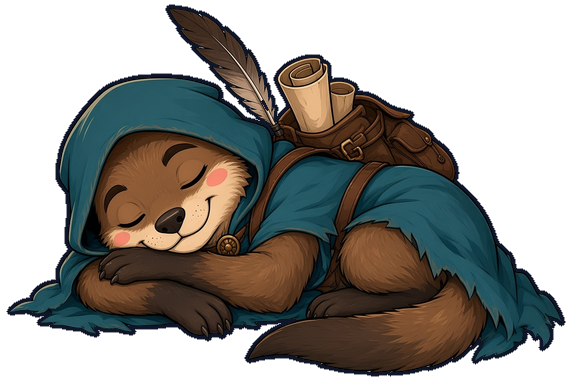
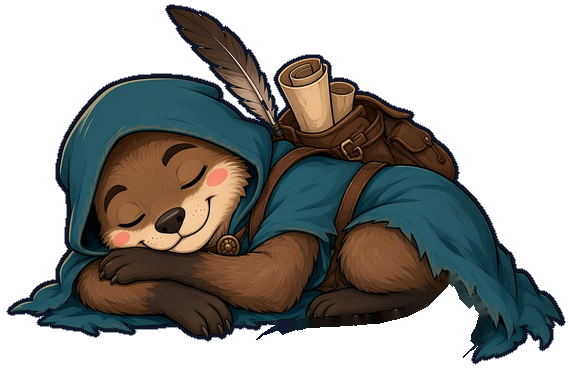
Sleeping pose rig: breathing back, twitches, curling tail, rippling Zs
Claude-Session: https://claude.ai/code/session_01MKsZvYnMVUP17zjeeAuUE4

Changed region(s): [[0.4175, 0.7218, 0.8649, 1.0]]

diff --git a/dbtest.html b/dbtest.html
@@ -11,7 +11,7 @@
   .wrap{max-width:1040px;margin:0 auto;padding:20px 16px 40px}
   h1{font:400 1.7rem "Lilita One",system-ui,sans-serif;margin:.2em 0}
   p{color:#aab6d6;margin:.3em 0 1em;line-height:1.45}
-  .dbrow{display:grid;grid-template-columns:repeat(4,1fr);gap:14px}
+  .dbrow{display:grid;grid-template-columns:repeat(auto-fit,minmax(190px,1fr));gap:14px}
   .dbrow.two{grid-template-columns:1fr 1fr}
   @media(max-width:820px){.dbrow{grid-template-columns:1fr 1fr}}
   @media(max-width:460px){.dbrow,.dbrow.two{grid-template-columns:1fr}}
@@ -25,12 +25,13 @@
 <body>
 <div class="wrap">
   <h1>Smudge on DragonBones</h1>
-  <p>All four working poses as DragonBones rigs: same bone names, a tail that bends along its length, and the same named moves on each (idle, act, cheer, blink, talk).</p>
+  <p>All five poses as DragonBones rigs: same bone names, a tail that bends along its length, and the same named moves on each. Asleep, his back rises and falls, his snout and paws twitch now and then, and the Zs ripple one after another.</p>
   <div class="dbrow">
     <div class="dbstage" id="d_stamp"><b>Stamping</b></div>
     <div class="dbstage" id="d_fish"><b>Fishing</b></div>
     <div class="dbstage" id="d_pick"><b>Lockpicking</b></div>
     <div class="dbstage" id="d_dig"><b>Digging</b></div>
+    <div class="dbstage" id="d_sleep"><b>Sleeping</b></div>
   </div>
   <div class="dbbar">
     <button class="btn" id="bAct">Do the job</button>
@@ -45,15 +46,15 @@
     <div class="dbstage" id="d_big"><b>DragonBones</b></div>
   </div>
 </div>
-<script src="js/os.js?v=1124e"></script>
+<script src="js/os.js?v=1124f"></script>
 <script src="js/vendor/dragonBones.core.js"></script>
-<script src="js/dbcanvas.js?v=1124e"></script>
+<script src="js/dbcanvas.js?v=1124f"></script>
 <script>
 (async function () {
   const $ = id => document.getElementById(id), opt = (x, y) => ({ x, y, ver: OS.VER });
   const note = (host, msg) => { const d = document.createElement('p'); d.textContent = msg; d.style.cssText = 'position:absolute;left:12px;right:12px;top:40px;color:#ffb4a8'; host.appendChild(d); };
   const all = [];
-  [['stamp', 0.43, 0.5, 0.9, 'd_stamp'], ['fish', 0.46, 0.5, 0.72, 'd_fish'], ['pick', 0.42, 0.47, 0.92, 'd_pick'], ['dig', 0.39, 0.5, 0.94, 'd_dig'], ['stamp', 0.62, 0.52, 0.9, 'd_big']].forEach(([pose, sc, x, y, id]) => {
+  [['stamp', 0.43, 0.5, 0.9, 'd_stamp'], ['fish', 0.46, 0.5, 0.72, 'd_fish'], ['pick', 0.42, 0.47, 0.92, 'd_pick'], ['dig', 0.39, 0.5, 0.94, 'd_dig'], ['sleep', 0.36, 0.52, 0.86, 'd_sleep'], ['stamp', 0.62, 0.52, 0.9, 'd_big']].forEach(([pose, sc, x, y, id]) => {
     const p = new DBCanvas.Puppet($(id), pose, sc, opt(x, y)); all.push(p);
     p.ready.catch(e => { console.error(e); note($(id), 'Could not start: ' + e.message); });
   });

diff --git a/js/dbcanvas.js b/js/dbcanvas.js
@@ -152,6 +152,9 @@
       this.p = f.build(this.pose, 'smudge_' + this.pose); this.an = this.p.animation; this.an.play('idle', 0);
       const cv = this.cv = document.createElement('canvas'), ctx = cv.getContext('2d'); cv.style.cssText = 'position:absolute;inset:0;width:100%;height:100%;pointer-events:none'; this.host.appendChild(cv);
       const blink = () => { if (this.dead) return; this.over('blink', 1, 3); this.bt = setTimeout(blink, 2200 + Math.random() * 3300); }; blink();
+      // little fidgets some poses have (a sleeping snout twitch, now and then a dream)
+      const fidget = () => { if (this.dead) return; if (Math.random() < 0.22) this.over('act', 1, 1); else this.over('twitch', 1, 5); this.ft = setTimeout(fidget, 3500 + Math.random() * 5500); };
+      if (this.an.hasAnimation('twitch')) this.ft = setTimeout(fidget, 2500);
       let last = performance.now();
       const frame = now => {
         if (this.dead) return;
@@ -172,7 +175,7 @@
     act() { return this.over('act', 1, 1); }
     cheer(sec) { return this.over('cheer', Math.max(1, Math.round((sec || 2) * 2)), 2); }
     say(sec) { return this.over('talk', Math.max(1, Math.round((sec || 2) * 1.5)), 4); }
-    destroy() { this.dead = true; cancelAnimationFrame(this.raf); clearTimeout(this.bt); if (this.cv) this.cv.remove(); if (this.p) this.p.dispose(); }
+    destroy() { this.dead = true; cancelAnimationFrame(this.raf); clearTimeout(this.bt); clearTimeout(this.ft); if (this.cv) this.cv.remove(); if (this.p) this.p.dispose(); }
   }
 
   window.DBCanvas = { Factory, draw, Puppet };

diff --git a/admin.html b/admin.html
@@ -3,7 +3,7 @@
 <title>Owner's office · OverSummoned</title><meta name="robots" content="noindex"><meta name="theme-color" content="#080c1a">
 <link rel="icon" href="/favicon.ico" sizes="any"><link rel="stylesheet" href="/css/os.css"></head>
 <body class="game admin">
-<div class="boot" id="boot"><img src="/assets/v2/smudge/stamp.webp?v=1124e" alt=""><p>Unlocking the office…</p></div>
+<div class="boot" id="boot"><img src="/assets/v2/smudge/stamp.webp?v=1124f" alt=""><p>Unlocking the office…</p></div>
 <header class="gbar"><div class="wrap"><a class="brand" href="/play">Over<b>Summoned</b></a><span class="crown">Owner's office</span><div class="res"><button class="btn small ghost" id="refresh">Refresh</button><a class="btn small" href="/play">Back to the game</a></div></div></header>
 <main class="wrap">
   <nav class="atabs" id="atabs"><button class="on" data-t="overview">Overview</button><button data-t="players">Players</button><button data-t="heroes">Characters</button><button data-t="items">Items</button><button data-t="economy">Economy</button><button data-t="studio">Marketing studio</button></nav>

diff --git a/play.html b/play.html
@@ -10,14 +10,14 @@
 <link rel="stylesheet" href="/css/os.css">
 </head>
 <body class="game">
-<div class="boot" id="boot"><img src="/assets/v2/smudge/stamp.webp?v=1124e" alt=""><p>Opening the ledger…</p></div>
+<div class="boot" id="boot"><img src="/assets/v2/smudge/stamp.webp?v=1124f" alt=""><p>Opening the ledger…</p></div>
 <header class="gbar"><div class="wrap">
   <a class="brand" href="/">Over<b>Summoned</b></a>
   <div class="res">
     <span title="Energy. Spend it on training."><img src="/assets/v2/loot/x_energy.webp" alt="Energy"><b id="r-energy">0</b></span>
     <span title="Ink. Smudge spends it to summon."><img src="/assets/v2/loot/x_ink.webp" alt="Ink"><b id="r-ink">0</b></span>
     <span title="Gold"><img src="/assets/v2/loot/x_gold.webp" alt="Gold"><b id="r-gold">0</b></span>
-    <button class="avatar" id="go-account" aria-label="Your account"><img src="/assets/v2/smudge/stamp.webp?v=1124e" alt=""></button>
+    <button class="avatar" id="go-account" aria-label="Your account"><img src="/assets/v2/smudge/stamp.webp?v=1124f" alt=""></button>
   </div>
 </div></header>
 

diff --git a/login.html b/login.html
@@ -5,7 +5,7 @@
 <body class="auth">
 <a class="brand authbrand" href="/">Over<b>Summoned</b></a>
 <main class="authwrap">
-  <div class="authart"><img src="/assets/v2/smudge/stamp.webp?v=1124e" alt="Smudge the otter stamping his ledger"><p id="authquip">“Name, please. And spell it right. You have no idea what happens when I spell it wrong.”</p></div>
+  <div class="authart"><img src="/assets/v2/smudge/stamp.webp?v=1124f" alt="Smudge the otter stamping his ledger"><p id="authquip">“Name, please. And spell it right. You have no idea what happens when I spell it wrong.”</p></div>
   <div class="authcard panel" id="card">
     <div id="v-main">
       <div class="seg" role="tablist"><button class="on" data-t="in">Sign in</button><button data-t="up">Create account</button></div>

diff --git a/js/os.js b/js/os.js
@@ -3,7 +3,7 @@ window.OS = (function () {
   const A = '/assets/v2/';
   const OS = { R: null, rig: null, voice: null, items: {}, heroes: {} };
 
-  OS.VER = '?v=1124e';   // bump when art or data changes, so browsers drop their cached copies
+  OS.VER = '?v=1124f';   // bump when art or data changes, so browsers drop their cached copies
   OS.load = async function () {
     const [R, rig, voice] = await Promise.all(['rules', 'rig', 'voice'].map(n => fetch('/data/' + n + '.json' + OS.VER).then(r => r.json())));
     OS.R = R; OS.rig = rig; OS.voice = voice; OS.items = R.items;

diff --git a/rules/dbexport.py b/rules/dbexport.py
@@ -38,7 +38,7 @@ def mat(deg, x, y):
 
 def wave(dur, step, fn, key='rotate'):
     """Sampled looping timeline: fn(phase 0..1) -> value."""
-    fr = [{'duration': step, 'tweenEasing': 0, key: r2(fn(f / dur))} for f in range(0, dur, step)]
+    fr = [{'duration': step, 'tweenEasing': 0, key: r2(fn(f / dur))} for f in range(0, dur, step) if f + step <= dur]
     fr.append({'duration': 0, key: r2(fn(0))})
     return fr
 
@@ -232,5 +232,111 @@ def build(pose='stamp'):
     print(f'{name}: {len(bones)} bones, {len(slots)} slots, tail {ang:.0f} deg x {L:.0f}px, atlas {W}x{H}')
 
 
+def build_sleep():
+    """The sleeping pose. The whole picture is one soft mesh with bones under the back, the snout and
+    the front paws, so the back rises as he breathes and he twitches now and then; the tail lies in
+    front on its own three bones; three Zs ride up and down one after another."""
+    pose = 'sleep'; name = 'smudge_sleep'
+    rig = json.load(open(os.path.join(ROOT, 'data', 'rig.json')))[pose]; foot = rig['foot']; D = rig['db']
+    A = lambda pt: (pt[0] - foot[0], pt[1] - foot[1]); TP = rig['parts'][0]
+    img = {'base': Image.open(os.path.join(SRC, 'sleep_base.png')).convert('RGBA'), 'tail': Image.open(os.path.join(SRC, 'sleep_tail.png')).convert('RGBA')}
+    def zed(sz):
+        s = 4; w = sz * s; e = Image.new('RGBA', (w + 8 * s, w + 8 * s), (0, 0, 0, 0)); d = ImageDraw.Draw(e); o = 4 * s; t = w * 0.24
+        pts = [(o, o), (o + w, o), (o + w, o + t * 0.9), (o + t * 1.25, o + w - t), (o + w, o + w - t), (o + w, o + w), (o, o + w), (o, o + w - t * 0.9), (o + w - t * 1.25, o + t), (o, o + t)]
+        d.polygon(pts, fill=(236, 240, 255, 255)); d.line(pts + [pts[0]], fill=(16, 22, 42, 255), width=2 * s, joint='curve')
+        return e.resize((sz + 8, sz + 8), Image.LANCZOS)
+    ZS = [16, 22, 30]
+    for i, sz in enumerate(ZS): img[f'z{i}'] = zed(sz)
+
+    order = sorted(img, key=lambda n: -img[n].size[1]); W = 1024; x = y = 2; rowh = 0; sub = []
+    for n in order:
+        w, h = img[n].size
+        if x + w + 2 > W: x = 2; y += rowh + 2; rowh = 0
+        sub.append({'name': n, 'x': x, 'y': y, 'width': w, 'height': h}); x += w + 2; rowh = max(rowh, h)
+    H = 1
+    while H < y + rowh + 2: H *= 2
+    atlas = Image.new('RGBA', (W, H), (0, 0, 0, 0))
+    for s in sub: atlas.paste(img[s['name']], (s['x'], s['y']))
+
+    body = (0, -90)
+    bones = [{'name': 'root'}, {'name': 'body', 'parent': 'root', 'transform': {'x': 0, 'y': -90}}]
+    P = {}
+    for n in ('breath', 'nose', 'paw'):
+        P[n] = A(D[n]); bones.append({'name': n, 'parent': 'body', 'transform': {'x': r2(P[n][0] - body[0]), 'y': r2(P[n][1] - body[1])}})
+    tp = A(TP['pivot']); tl = (TP['pivot'][0] - TP['offset'][0], TP['pivot'][1] - TP['offset'][1])
+    (dx, dy), L = tail_axis(img['tail'], tl); ang = math.degrees(math.atan2(dy, dx)); seg = L / 3
+    bones.append({'name': 'tail1', 'parent': 'body', 'length': r2(seg), 'transform': {'x': r2(tp[0] - body[0]), 'y': r2(tp[1] - body[1]), 'skX': r2(ang), 'skY': r2(ang)}})
+    bones.append({'name': 'tail2', 'parent': 'tail1', 'length': r2(seg), 'transform': {'x': r2(seg)}})
+    bones.append({'name': 'tail3', 'parent': 'tail2', 'length': r2(seg), 'transform': {'x': r2(seg)}})
+    for i, zp in enumerate(D['zs']):
+        zx, zy = A(zp); bones.append({'name': f'z{i}', 'parent': 'root', 'transform': {'x': r2(zx), 'y': r2(zy)}})
+    idx = {b['name']: i for i, b in enumerate(bones)}
+
+    def grid(w, h, origin, NX, NY, weigh):
+        verts = []; uvs = []; weights = []; tris = []
+        for j in range(NY):
+            for i in range(NX):
+                px, py = w * i / (NX - 1), h * j / (NY - 1)
+                verts += [r2(origin[0] + px), r2(origin[1] + py)]; uvs += [round(px / w, 4), round(py / h, 4)]
+                ws = [(b, round(v, 3)) for b, v in weigh(px, py) if v > 0.001]
+                weights += [len(ws)] + [v for bw in ws for v in bw]
+        for j in range(NY - 1):
+            for i in range(NX - 1):
+                a = j * NX + i; tris += [a, a + 1, a + NX, a + 1, a + NX + 1, a + NX]
+        return verts, uvs, tris, weights
+    # body picture: weights fall off smoothly from each of the three little bones
+    bw, bh = img['base'].size
+    def wbody(px, py):
+        def near(c, rx, ry, floor=0.0):
+            v = math.exp(-(((px - c[0]) / rx) ** 2 + ((py - c[1]) / ry) ** 2) / 2); return max(0.0, (v - floor) / (1 - floor))
+        b = near(D['breath'], 95, 80, 0.15); n = near(D['nose'], 20, 18, 0.2); p = near(D['paw'], 26, 16, 0.2)
+        t = b + n + p
+        if t > 1: b, n, p = b / t, n / t, p / t
+        return [(idx['body'], 1 - (b + n + p)), (idx['breath'], b), (idx['nose'], n), (idx['paw'], p)]
+    v, u, t, w = grid(bw, bh, A((0, 0)), 20, 14, wbody)
+    bp = [idx['body'], 1, 0, 0, 1, body[0], body[1]]
+    for n in ('breath', 'nose', 'paw'): bp += [idx[n], 1, 0, 0, 1, r2(P[n][0]), r2(P[n][1])]
+    base_mesh = {'type': 'mesh', 'name': 'base', 'width': bw, 'height': bh, 'vertices': v, 'uvs': u, 'triangles': t, 'weights': w, 'slotPose': [1, 0, 0, 1, 0, 0], 'bonePose': bp}
+    tw, th = img['tail'].size
+    def wtail(px, py):
+        q = ((px - tl[0]) * dx + (py - tl[1]) * dy) / L * 3 - 0.5; q = max(0.0, min(2.0, q)); k = min(1, int(q)); f = q - k; f = f * f * (3 - 2 * f)
+        return [(idx[f'tail{k + 1}'], 1 - f), (idx[f'tail{k + 2}'], f)]
+    v, u, t, w = grid(tw, th, A(TP['offset']), 9, 5, wtail)
+    bp = []
+    for k in range(3): bp += [idx[f'tail{k + 1}']] + mat(ang, tp[0] + dx * seg * k, tp[1] + dy * seg * k)
+    tail_mesh = {'type': 'mesh', 'name': 'tail', 'width': tw, 'height': th, 'vertices': v, 'uvs': u, 'triangles': t, 'weights': w, 'slotPose': [1, 0, 0, 1, 0, 0], 'bonePose': bp}
+
+    slots = [{'name': 'base', 'parent': 'root'}, {'name': 'tail', 'parent': 'root'}] + [{'name': f'z{i}', 'parent': f'z{i}'} for i in range(3)]
+    skin = [{'name': 'base', 'display': [base_mesh]}, {'name': 'tail', 'display': [tail_mesh]}] + [{'name': f'z{i}', 'display': [{'name': f'z{i}'}]} for i in range(3)]
+
+    S = math.sin; T = 2 * math.pi; C = math.cos
+    idle = [
+        {'name': 'breath', 'translateFrame': wave(120, 6, lambda p: -3.6 * (0.5 - 0.5 * C(T * p)), 'y')},
+        {'name': 'tail2', 'rotateFrame': wave(120, 8, lambda p: 1.5 * S(T * p + 0.4))},
+        {'name': 'tail3', 'rotateFrame': wave(120, 6, lambda p: 4 * S(T * p) + 1.5 * S(T * 3 * p))},
+    ]
+    # the Zs: one wave passing along the three of them, like a caterpillar's back
+    for i in range(3):
+        idle.append({'name': f'z{i}', 'translateFrame': wave(120, 4, lambda p, i=i: (5 + 2 * i) * S(T * 2 * p - i * 1.25), 'y'),
+                     'rotateFrame': wave(120, 6, lambda p, i=i: 6 * S(T * 2 * p - i * 1.25 - 0.8))})
+    twitch = [{'name': 'nose', 'translateFrame': keys([(0, {'x': 0, 'y': 0}), (2, {'x': -1.5, 'y': -2.5}), (4, {'x': 0.5, 'y': 0.5}), (6, {'x': -1, 'y': -1.5}), (10, {'x': 0, 'y': 0})])}]
+    act = [   # a dream: paws jerk, tail tip flicks, he settles
+        {'name': 'paw', 'translateFrame': keys([(0, {'x': 0, 'y': 0}), (2, {'x': 3, 'y': -3}), (4, {'x': -1, 'y': 1}), (6, {'x': 2.5, 'y': -2}), (9, {'x': -0.5, 'y': 0.5}), (16, {'x': 0, 'y': 0})])},
+        {'name': 'nose', 'translateFrame': keys([(0, {'x': 0, 'y': 0}), (3, {'x': -1.5, 'y': -2}), (8, {'x': 0.5, 'y': 0.5}), (16, {'x': 0, 'y': 0})])},
+        {'name': 'tail3', 'rotateFrame': keys([(0, 0), (3, 13), (6, -6), (9, 8), (16, 0)])},
+        {'name': 'tail2', 'rotateFrame': keys([(0, 0), (4, 5), (8, -2), (16, 0)])}]
+    cheer = [{'name': 'tail3', 'rotateFrame': wave(24, 3, lambda p: 9 * S(T * p))}, {'name': 'tail2', 'rotateFrame': wave(24, 3, lambda p: 4 * S(T * p - 0.8))}]
+    anims = [{'duration': 120, 'playTimes': 0, 'name': 'idle', 'bone': idle}, {'duration': 16, 'playTimes': 1, 'name': 'act', 'bone': act},
+             {'duration': 10, 'playTimes': 1, 'name': 'twitch', 'bone': twitch}, {'duration': 24, 'playTimes': 0, 'name': 'cheer', 'bone': cheer}]
+    ske = {'frameRate': FPS, 'name': name, 'version': '5.5', 'compatibleVersion': '5.5', 'armature': [{
+        'type': 'Armature', 'frameRate': FPS, 'name': pose, 'aabb': {'x': -foot[0], 'y': -foot[1], 'width': bw, 'height': bh},
+        'bone': bones, 'slot': slots, 'skin': [{'name': '', 'slot': skin}], 'animation': anims, 'defaultActions': [{'gotoAndPlay': 'idle'}]}]}
+    tex = {'name': name, 'imagePath': f'{name}_tex.png', 'width': W, 'height': H, 'SubTexture': sub}
+    json.dump(ske, open(os.path.join(OUT, f'{name}_ske.json'), 'w'), separators=(',', ':'))
+    json.dump(tex, open(os.path.join(OUT, f'{name}_tex.json'), 'w'), separators=(',', ':'))
+    atlas.save(os.path.join(OUT, f'{name}_tex.webp'), quality=92, method=6)
+    print(f'{name}: {len(bones)} bones, {len(slots)} slots, tail {ang:.0f} deg x {L:.0f}px, atlas {W}x{H}')
+
+
 if __name__ == '__main__':
-    for pose in (sys.argv[1:] or ['stamp', 'fish', 'pick', 'dig']): build(pose)
+    for pose in (sys.argv[1:] or ['stamp', 'fish', 'pick', 'dig', 'sleep']): build_sleep() if pose == 'sleep' else build(pose)

diff --git a/rules/db4.py b/rules/db4.py
@@ -1,0 +1,27 @@
+import asyncio, subprocess, time, socket, sys
+from playwright.async_api import async_playwright
+from PIL import Image
+def up():
+    s=socket.socket()
+    try: s.connect(('127.0.0.1',8800)); s.close(); return True
+    except Exception: return False
+if not up():
+    subprocess.Popen(['python3','/home/claude/tools/serve.py','/home/claude/oversummoned-game','8800'],stdout=subprocess.DEVNULL,stderr=subprocess.DEVNULL,start_new_session=True); time.sleep(1.5)
+async def main():
+    async with async_playwright() as p:
+        b=await p.chromium.launch(executable_path='/usr/bin/google-chrome',args=['--no-sandbox'])
+        pg=await b.new_page(viewport={'width':1080,'height':700},device_scale_factor=1.5)
+        pg.on('pageerror',lambda e: print('PAGEERR',e))
+        pg.on('console',lambda m: print('ERR',m.text[:200]) if m.type=='error' and 'accounts.google' not in m.text and 'ERR_' not in m.text else None)
+        await pg.goto('http://127.0.0.1:8800/dbtest.html',wait_until='load'); await pg.wait_for_timeout(1500)
+        clip={'x':20,'y':110,'width':1040,'height':350}
+        await pg.screenshot(path='/tmp/d0.png',clip=clip)
+        for i,ms in enumerate((230,380,560)):
+            await pg.evaluate("document.getElementById('bAct').click()"); await pg.wait_for_timeout(ms)
+            await pg.screenshot(path=f'/tmp/d{i+1}.png',clip=clip); await pg.wait_for_timeout(900)
+        await b.close()
+asyncio.run(main())
+ims=[Image.open(f'/tmp/d{i}.png') for i in range(4)]
+s=Image.new('RGB',(ims[0].width,sum(i.height for i in ims))); y=0
+for im in ims: s.paste(im,(0,y)); y+=im.height
+s.resize((1300,int(s.height*1300/s.width)),Image.LANCZOS).save('/tmp/d_all.png')

diff --git a/rules/sleepshot.py b/rules/sleepshot.py
@@ -1,0 +1,26 @@
+import asyncio, subprocess, time, socket
+from playwright.async_api import async_playwright
+from PIL import Image
+def up():
+    s=socket.socket()
+    try: s.connect(('127.0.0.1',8800)); s.close(); return True
+    except Exception: return False
+if not up():
+    subprocess.Popen(['python3','/home/claude/tools/serve.py','/home/claude/oversummoned-game','8800'],stdout=subprocess.DEVNULL,stderr=subprocess.DEVNULL,start_new_session=True); time.sleep(1.5)
+async def main():
+    async with async_playwright() as p:
+        b=await p.chromium.launch(executable_path='/usr/bin/google-chrome',args=['--no-sandbox'])
+        pg=await b.new_page(viewport={'width':1080,'height':900},device_scale_factor=2)
+        pg.on('pageerror',lambda e: print('PAGEERR',e))
+        await pg.goto('http://127.0.0.1:8800/dbtest.html',wait_until='load'); await pg.wait_for_timeout(1500)
+        box=await pg.evaluate("(()=>{const r=document.getElementById('d_sleep').getBoundingClientRect();return {x:r.x,y:r.y,width:r.width,height:r.height}})()")
+        print(box)
+        for i in range(4):
+            await pg.screenshot(path=f'/tmp/z{i}.png',clip=box); await pg.wait_for_timeout(620)
+        await pg.evaluate("DBP.forEach(p=>p.bones=true)"); await pg.wait_for_timeout(100); await pg.screenshot(path='/tmp/z4.png',clip=box)
+        await b.close()
+asyncio.run(main())
+ims=[Image.open(f'/tmp/z{i}.png') for i in range(5)]
+s=Image.new('RGB',(sum(i.width for i in ims),ims[0].height)); x=0
+for im in ims: s.paste(im,(x,0)); x+=im.width
+s.save('/tmp/z_all.png'); print(s.size)

diff --git a/rules/cutlib.py b/rules/cutlib.py
@@ -95,6 +95,25 @@ def cut_behind(a, base, pts, overlap=None, keep_cloak=True, soften=None, thin=Fa
     return piece
 
 
+def cut_front(a, base, pts, fill=10, fur_only=True):
+    """A part lying on top of the body (a tail curled in front). Cloak stays on the body. The body is
+    painted a little way in under the part's edge so no slit opens when it lifts; the rest is cleared."""
+    teal, cloak, dark = colours(a); alpha = a[..., 3] > 0; rgb = a[..., :3].astype(np.int16)
+    m = poly(a, pts) & alpha & ~cloak
+    if fur_only:
+        fur = m & (rgb[..., 0] > rgb[..., 2] + 18) & (rgb[..., 0] >= rgb[..., 1])
+        fur = biggest(ndimage.binary_opening(fur, iterations=1))
+        m = ndimage.binary_fill_holes(fur | (ndimage.binary_dilation(fur, iterations=7) & m & dark))
+    m |= ndimage.binary_dilation(m, iterations=7) & alpha & dark & ndimage.binary_dilation(~alpha, iterations=8) & ndimage.binary_dilation(poly(a, pts), iterations=6)
+    piece = a.copy(); piece[~m] = 0
+    base[..., 3][m] = 0
+    known = base[..., 3] > 200
+    band = ndimage.binary_dilation(known, iterations=fill) & m
+    painted = cv2.inpaint(np.ascontiguousarray(base[..., :3]), (~known).astype(np.uint8) * 255, 4, cv2.INPAINT_TELEA)
+    base[..., :3][band] = painted[band]; base[..., 3][band] = 255
+    return piece
+
+
 def crumbs(base, least=300):
     lab, n = ndimage.label(base[..., 3] > 0)
     if n > 1:

diff --git a/rules/smudge_sleep_cut.py b/rules/smudge_sleep_cut.py
@@ -1,0 +1,23 @@
+"""Cut of Smudge's sleeping pose: just the tail comes off (it lies in front). Everything else that
+moves while he sleeps (back rising, snout and paw twitches, the Zs) is done with bones on the whole
+picture in rules/dbexport.py.   python3 rules/smudge_sleep_cut.py"""
+import sys, os
+sys.path.insert(0, os.path.dirname(os.path.abspath(__file__)))
+from cutlib import *
+
+POSE = 'sleep'
+TAIL = [(243,360),(252,345),(270,329),(300,318),(340,316),(380,313),(408,306),(428,296),(438,280),(446,270),(470,270),(500,300),(500,340),
+        (482,360),(450,373),(400,379),(340,377),(290,371),(255,366)]
+
+
+def run():
+    a, xx, yy = load(POSE); base = a.copy()
+    tail = cut_front(a, base, TAIL)
+    parts = [dict(name='tail', mode='front', pivot=[455, 286], offset=save(tail, POSE, 'tail'))]
+    entry = dict(size=[a.shape[1], a.shape[0]], foot=[300, 372], bag=[430, 150], parts=parts, face=None, zzz=[250, 120],
+                 db=dict(breath=[410, 190], nose=[165, 212], paw=[150, 272], zs=[[120, 60], [92, 26], [58, -14]]))
+    finish(POSE, a, base, entry); return entry
+
+
+if __name__ == '__main__':
+    e = run(); sheet(POSE, e, [{}, {'tail': 5}, {'tail': -5}], '/tmp/sleepcut.png'); print('ok')

diff --git a/PLAN.md b/PLAN.md
@@ -88,7 +88,7 @@ Status: [x] done, [~] partly done, [ ] not started.
 - [ ] Stamp pose leftovers: small dark nick at the shoulder, flat cloak patch behind the lowered arm
 - [x] All four working poses are DragonBones rigs (`rules/dbexport.py` writes `assets/v2/db/smudge_<pose>_*`): shared bones, bending tail, same move names on each (idle, act, cheer, blink, talk)
 - [x] `DBCanvas.Puppet` in `js/dbcanvas.js`: drop-in Smudge player (act / cheer / say), loads each pose on demand
-- [ ] Sleeping pose as a DragonBones rig (no moving parts cut yet)
+- [x] Sleeping pose as a DragonBones rig: back rises and falls, snout and paw twitches at random, tail tip curls, three Zs ripple one after another
 - [ ] Copy the recut parts into the desktop pet (`desktop-fable/`)
 - [ ] Shared skeleton for Smudge's other poses and all 26 heroes (extra bones only where needed: wings, capes, weapons)
 - [ ] Swap the game and landing puppets over to the DragonBones player; shrink the player download (core is about 680 KB unminified; Pixi dropped for a small canvas renderer, `js/dbcanvas.js`)
